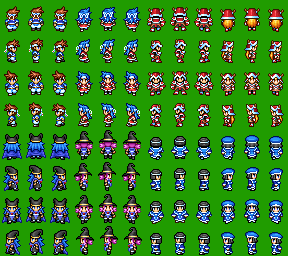
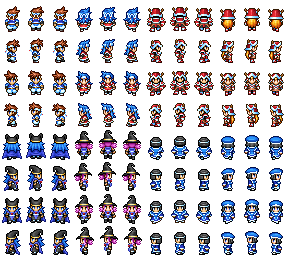
fix bug for char display; transpose again ^^

diff --git a/src/world.py b/src/world.py
@@ -8,7 +8,8 @@ from helper import Mode, Dir, field2coor
 X = 1000
 Y = 600
 FPS = 30
-SCALE = 5 ## Only Change for Testing
+SCALE = 10 ## Only Change for Testing
+## Standard: 32
 Title = 'Flaming Octo Geezus'
 
 ## Static World Class
@@ -56,7 +57,7 @@ class World(object):
 	@classmethod
 	def gen_new_level(cls, x, y):
 		gen = mapgen.GenerateMap(x,y)
-		dung = Dungeon(gen.x, gen.y, gen.map)
+		dung = Dungeon(x, y, gen.map)
 		cls.dungeons.append(dung)
 		return len(cls.dungeons) - 1 # should be obvious that this is NOT thread safe
 
@@ -66,6 +67,8 @@ class Visualization(object):
 	"""Contains surfaces and everything that is important for visualization"""
 
 	# maybe some global class values here...
+	W = World
+	P = World.player
 
 	@classmethod
 	def init(cls):
@@ -101,7 +104,8 @@ class Visualization(object):
 		cls.render_playerSprite(i)
 
 		#cls.MAIN.blit(World.dungeons[World.cur_level].surf, (0,0))
-		cls.render_map(i, 200, 0)
+		cls.render_map(i, 0, 0)
+		pygame.draw.circle(cls.MAIN, (255,0,0), cls.W.dungeons[cls.W.cur_level].surf.get_size(), 10)
 
 
 		# Test...
@@ -111,17 +115,17 @@ class Visualization(object):
 
 	@classmethod
 	def render_map(cls, i, x, y):
-		m = World.dungeons[i]
+		m = cls.W.dungeons[i]
 		cls.MAIN.blit(m.surf, (x,y))
 
 	@classmethod
 	def render_player2map(cls, i):
-		pygame.draw.circle(World.dungeons[i].surf, (255,0,0),
-			field2coor(World.player.x, World.player.y, SCALE), SCALE/2-1)
+		pygame.draw.circle(cls.W.dungeons[i].surf, (255,0,0),
+			field2coor(cls.P.x, cls.P.y, SCALE), SCALE/2-1)
 
 	@classmethod
 	def render_playerSprite(cls, i):
-		World.player.sprite.draw2dungeon(1,2, World.dungeons[i].surf, World.player.x, World.player.y)
+		cls.P.sprite.draw2dungeon(1,2, cls.W.dungeons[i].surf, cls.P.x,cls.P.y)
 
 
 class MultiSprite(object):
@@ -147,9 +151,10 @@ class MultiSprite(object):
 		rx, ry = self.res_x, self.res_y
 		offX, offY = self.offX, self.offY
 		gX, gY = self.gX, self.gY
-		subsprite_rect = (gX+rx*x, gY+ry*y, gX+rx*x+rx, gY+ry*y+ry) # square around the sub sprite we want to draw
+
+		subsprite_rect = (gX+rx*x, gY+ry*y, rx, ry) # square around the sub sprite we want to draw
 		topleft = (t_x*SCALE+offX, t_y*SCALE+offY) # topleft target coordinates; here goes the subsprite
-		print subsprite_rect, topleft
+		#print subsprite_rect, topleft
 		target.blit(self.sprite, topleft, subsprite_rect)
 
 class TileSetMultiSprite(MultiSprite):
@@ -171,7 +176,9 @@ class Dungeon(object):
 
 		s = SCALE
 
+		print "Dungeon Surface SHOULD HAVE DIMENSIONS", x, y
 		self.surf = pygame.Surface((x*s,y*s))
+		print "Dungeon Surface initialized with size", self.surf.get_size()
 		# This Surface holds the complete Dungeon.
 		# Dont blit on this Surface, instead
 		# copy it, blit on the copy and show that copy to the user.
@@ -180,6 +187,6 @@ class Dungeon(object):
 
 		for xx in range(x):
 			for yy in range(y):
-				self.pxarr[yy*s : yy*s+s-1, xx*s : xx*s+s-1] = (100*self.level[xx][yy],100*self.level[xx][yy],100*self.level[xx][yy])
+				val = 100*self.level[xx][yy]
+				self.pxarr[xx*s : xx*s+s-1, yy*s : yy*s+s-1] = (val, val, val)
 		del self.pxarr
-

diff --git a/src/helper.py b/src/helper.py
@@ -1,7 +1,6 @@
 #!/usr/bin/env python
 # -*- coding: utf-8 *-*
 
-
 def enum(*seq, **named): return type('Enum', (), dict(zip(seq, range(len(seq))), **named)) ## dont even ask
 
 # possible modes (menu, game, highscore?)
@@ -10,10 +9,7 @@ Mode = enum('Start', 'Menu', 'InGame', 'InGameDetail', 'GameOver')
 # possible Directions
 Dir = enum('N','E','S','W')
 
-
 def field2coor(x,y,scale):
 	xx = x*scale + scale/2
 	yy = y*scale + scale/2
 	return xx, yy
-
-

diff --git a/src/mapgen.py b/src/mapgen.py
@@ -1,3 +1,6 @@
+#!/usr/bin/env python
+# -*- coding: utf-8 *-*
+
 from random import randint, sample, choice
 
 R = lambda x: int(round(x)) # wrapper for rounding
